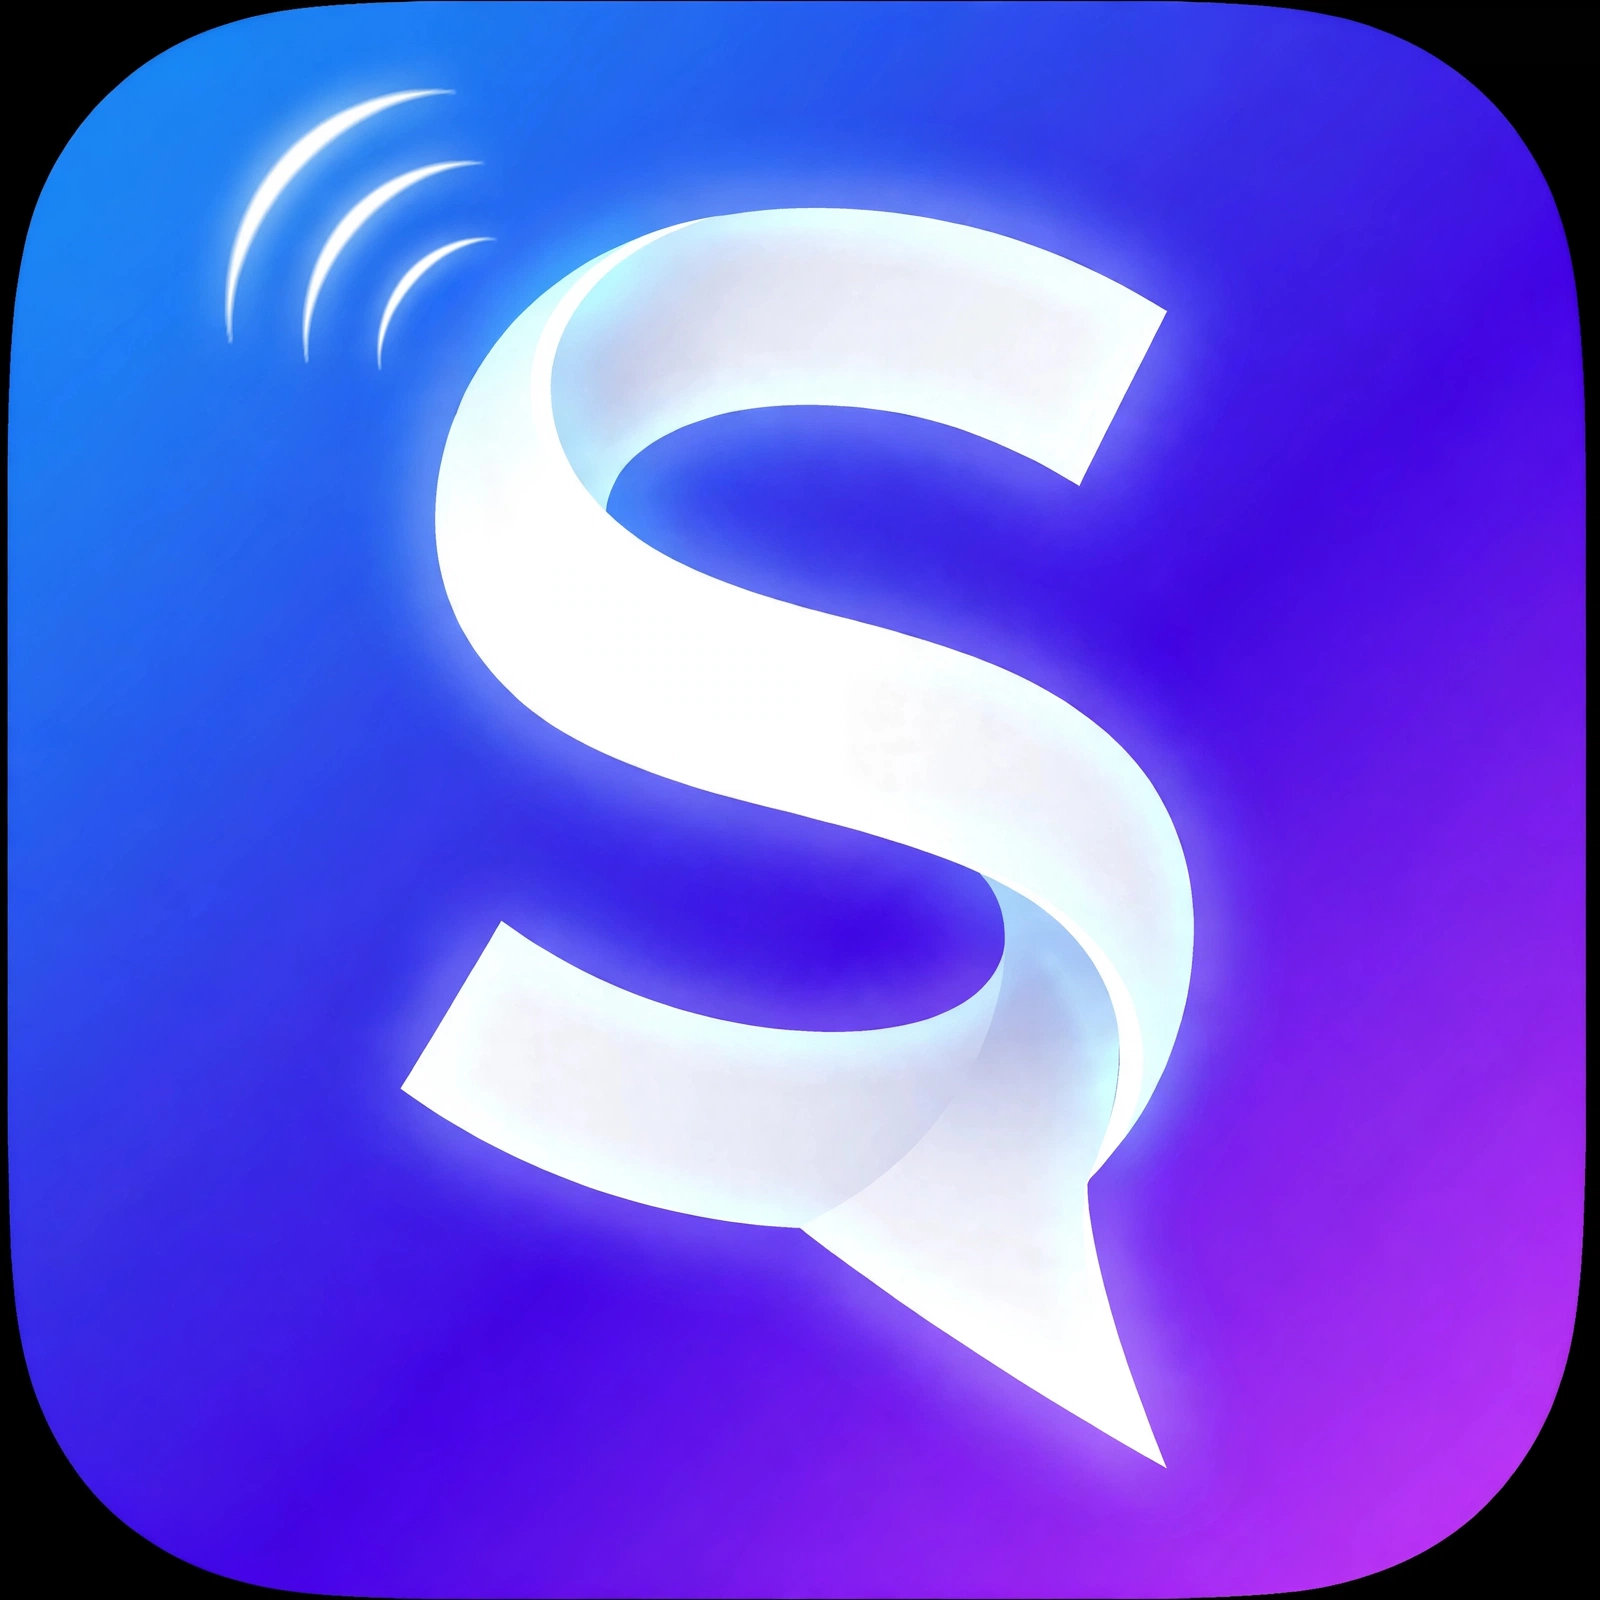
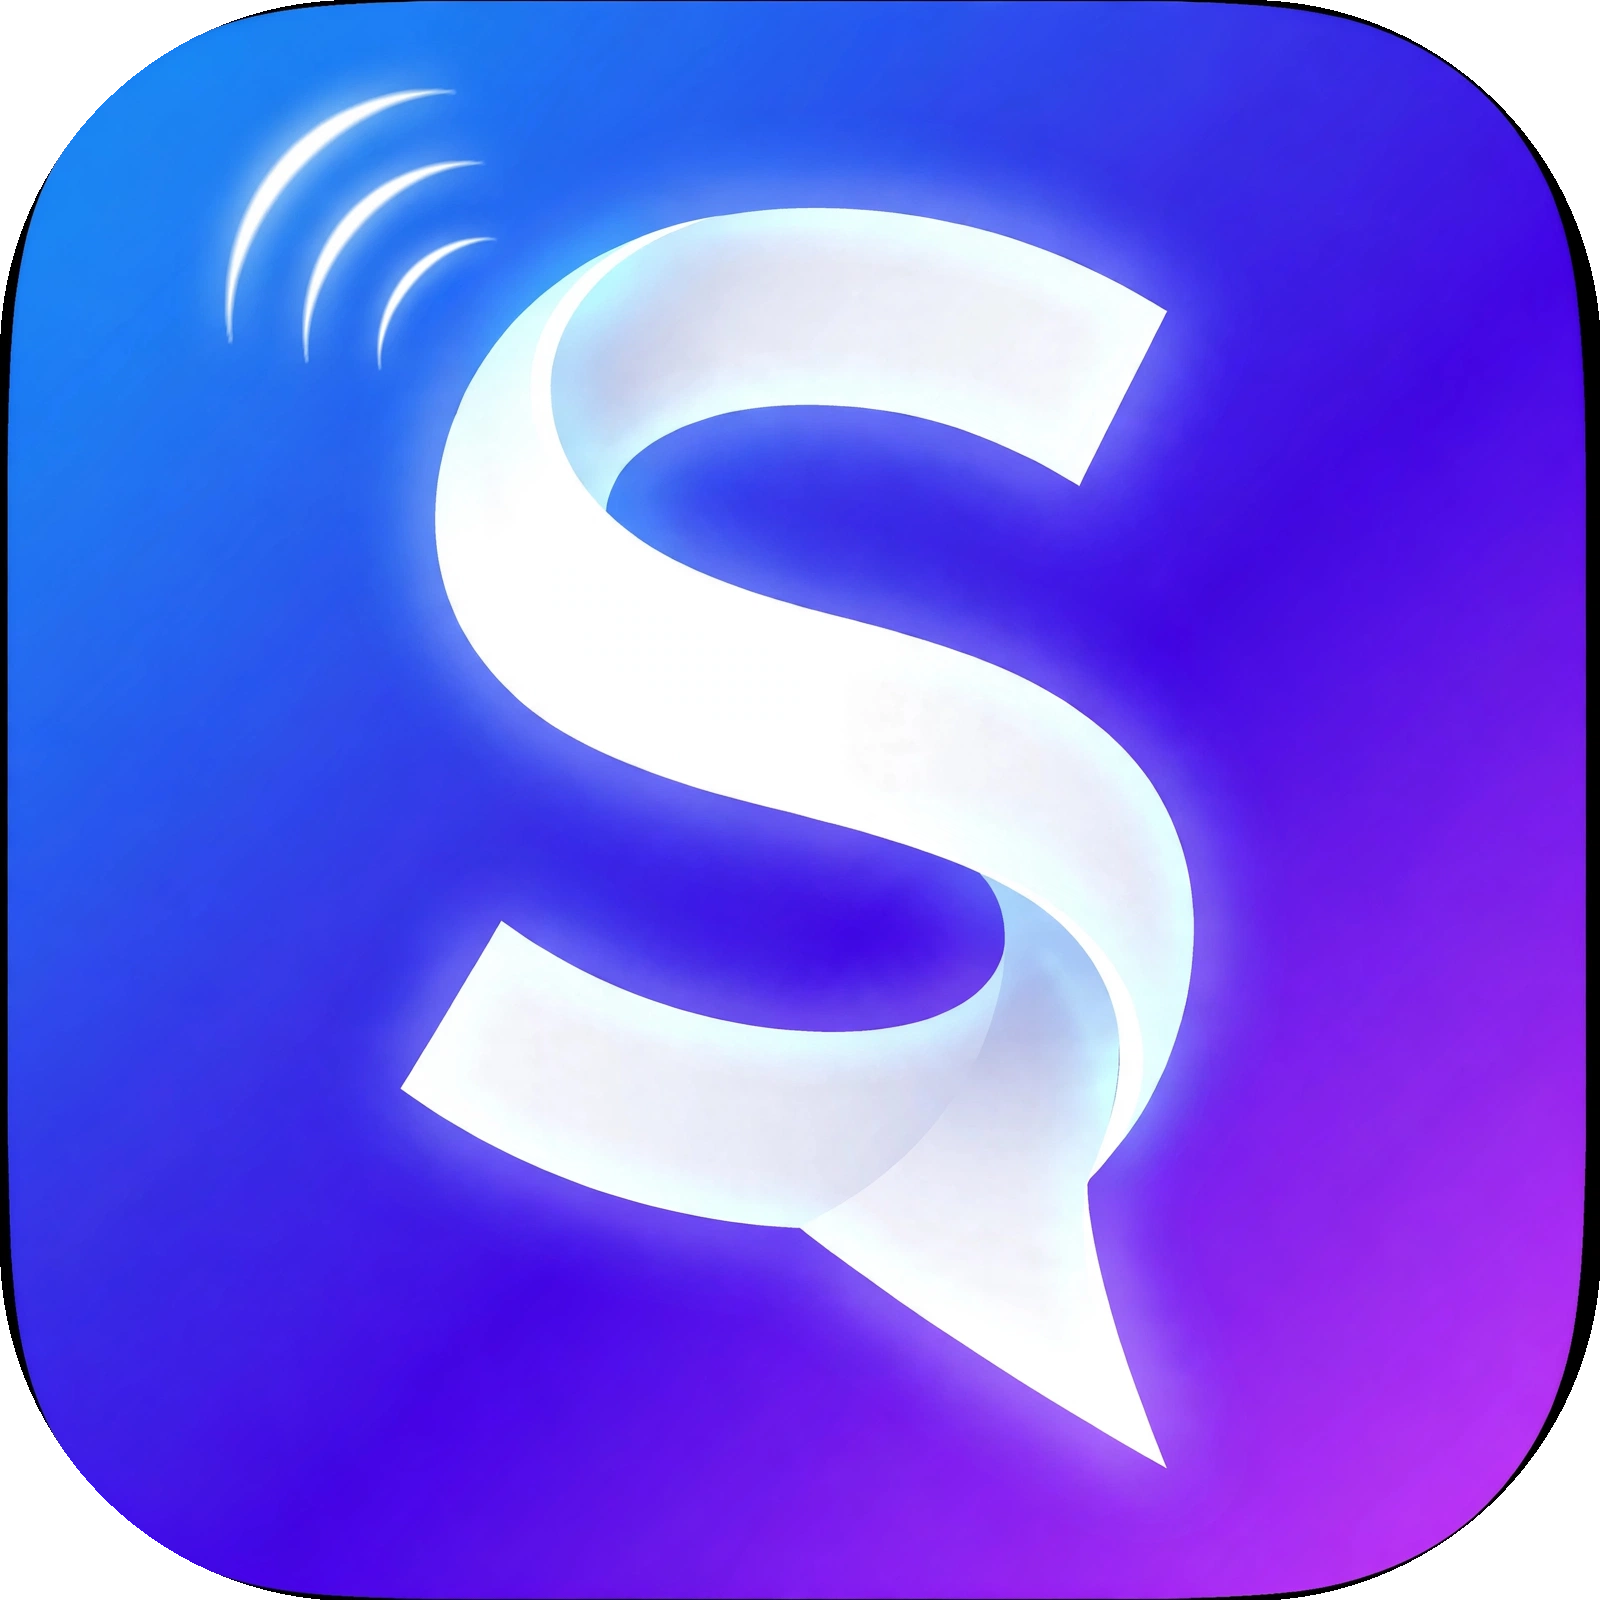
标题栏跟随主题+图标去黑角，version 1.0.2

diff --git a/cinny/src/app/pages/ThemeManager.tsx b/cinny/src/app/pages/ThemeManager.tsx
@@ -11,6 +11,20 @@ import {
 import { useSetting } from '../state/hooks/settings';
 import { settingsAtom } from '../state/settings';
 
+/**
+ * 同步 Tauri 原生窗口（标题栏）的明暗主题
+ * 使标题栏跟随应用内主题变色
+ */
+const syncTauriWindowTheme = (kind: ThemeKind) => {
+  try {
+    const tauri = (window as any).__TAURI__;
+    const win = tauri?.window?.getCurrentWindow?.();
+    win?.setTheme?.(kind === ThemeKind.Dark ? 'dark' : 'light');
+  } catch {
+    // 非桌面端忽略
+  }
+};
+
 export function UnAuthRouteThemeManager() {
   const systemThemeKind = useSystemThemeKind();
 
@@ -23,6 +37,7 @@ export function UnAuthRouteThemeManager() {
     if (systemThemeKind === ThemeKind.Light) {
       document.body.classList.add(...LightTheme.classNames);
     }
+    syncTauriWindowTheme(systemThemeKind);
   }, [systemThemeKind]);
 
   return null;
@@ -43,6 +58,7 @@ export function AuthRouteThemeManager({ children }: { children: ReactNode }) {
     } else {
       document.body.style.filter = '';
     }
+    syncTauriWindowTheme(activeTheme.kind);
   }, [activeTheme, monochromeMode]);
 
   return <ThemeContextProvider value={activeTheme}>{children}</ThemeContextProvider>;
